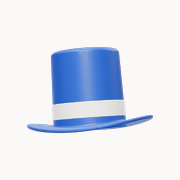
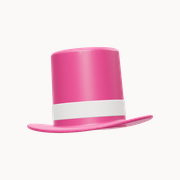
tophat 1.0.29
- 1 further change (subject withheld)

Changed region(s): [[0.2778, 0.25, 0.6944, 0.5833], [0.1389, 0.6389, 0.8611, 0.75]]

diff --git a/packages/webchat/src/app.css b/packages/webchat/src/app.css
@@ -11,10 +11,10 @@
   --ink: #e8e6e3;
   --ink-dim: #a1a09c;
   --ink-faint: #6d6c69;
-  --accent: #8bace4;
-  --accent-soft: #8bace422;
+  --accent: #e6a0a6;
+  --accent-soft: #e6a0a622;
   --live: #6fbf8b;
-  --warn: #e5484d;
+  --warn: #d9695c;
   --sans: ui-sans-serif, -apple-system, 'SF Pro Text', 'Segoe UI', system-ui, sans-serif;
   --serif: 'Iowan Old Style', 'Charter', 'Source Serif 4', Georgia, serif;
   --mono: ui-monospace, 'SF Mono', 'JetBrains Mono', Menlo, monospace;
@@ -50,10 +50,10 @@
     --ink: #1b1a18;
     --ink-dim: #56544f;
     --ink-faint: #8b8880;
-    --accent: #4468a7;
-    --accent-soft: #4468a71a;
+    --accent: #b45c6e;
+    --accent-soft: #b45c6e1a;
     --live: #2f7d4f;
-    --warn: #c62828;
+    --warn: #b03b2c;
     color-scheme: light;
   }
 }
@@ -113,7 +113,7 @@ button { font: inherit; color: inherit; background: none; border: none; padding:
 
 .prose ul, .prose ol { padding-left: 1.4em; }
 .prose ul { list-style: disc outside; }
-.prose ol { list-style: decimal outside; padding-left: 2.5em; } /* room for 3-digit outside markers */
+.prose ol { list-style: decimal outside; }
 .prose ul ul { list-style: circle outside; }
 .prose ul ul ul { list-style: square outside; }
 .prose li { margin-bottom: 0.3em; }

diff --git a/packages/webchat/src/app.html b/packages/webchat/src/app.html
@@ -9,9 +9,9 @@
     <meta name="apple-mobile-web-app-status-bar-style" content="black-translucent" />
     <title>tophat chat</title>
     <link rel="manifest" href="/manifest.webmanifest" />
-    <link rel="icon" href="/favicon.svg?v=blu1" type="image/svg+xml" />
-    <link rel="icon" href="/favicon-32.png?v=blu1" type="image/png" sizes="32x32" />
-    <link rel="apple-touch-icon" href="/apple-touch-icon.png?v=blu1" />
+    <link rel="icon" href="/favicon.svg?v=3dhat" type="image/svg+xml" />
+    <link rel="icon" href="/favicon-32.png?v=3dhat" type="image/png" sizes="32x32" />
+    <link rel="apple-touch-icon" href="/apple-touch-icon.png?v=3dhat" />
     <script>
       // Start the notes request now, before the scripts that will use it have loaded; the page takes
       // the answer through takeEarly() (src/lib/client/early.js). A failure is the page's to handle.
